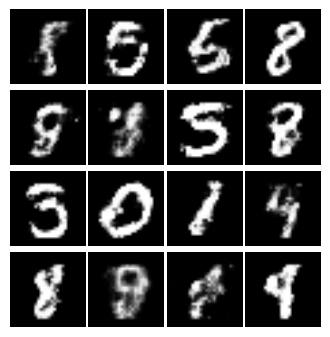
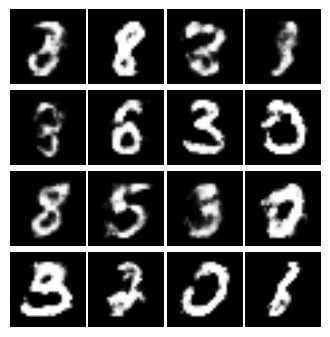
added results

diff --git a/gan.py b/gan.py
@@ -75,7 +75,7 @@ class GAN:
         self.sess = tf.Session()
         self.sess.run(tf.global_variables_initializer())
 
-        for it in range(70000):
+        for it in range(96000):
             X_mb, _ = data.train.next_batch(mb_size)
 
             _, D_loss_curr = self.sess.run([self.D_solver, self.D_loss],
